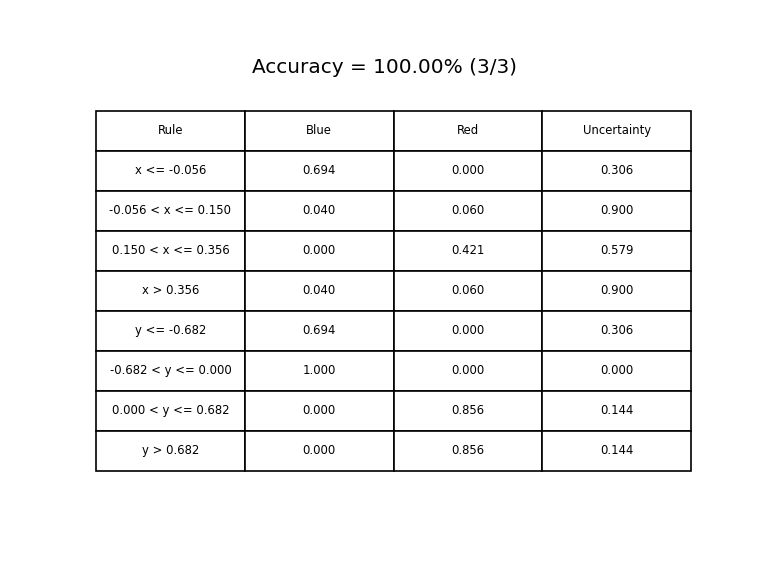
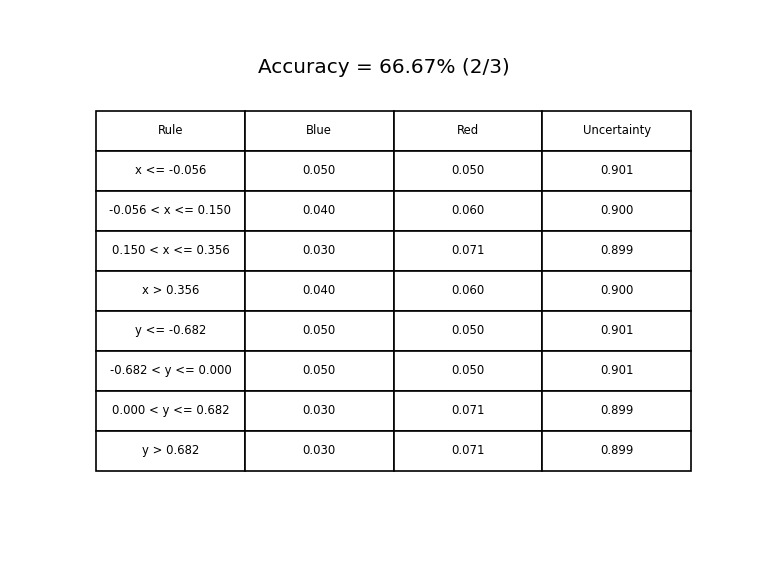
Train and inference generalization

diff --git a/src/model.py b/src/model.py
@@ -43,95 +43,86 @@ def get_two_class_probabilities(dict_m, dataset_name):
     # p_tot = p_a + p_b
     # return p_a/p_tot, p_b/p_tot # It works with projection working!
     class_0, class_1 = get_class_plausibility(plausibility(dict_m, dataset_name), dataset_name)
-    return class_0/(class_0+class_1), class_1/(class_0+class_1)
+    prob_class_0 = class_0/(class_0+class_1)
+    prob_class_1 = class_1/(class_0+class_1)
+    return prob_class_0, prob_class_1
     #return r, b, r_b
     #return r/(r+r_b), b/(r+r_b), r_b 
     #return r/(r+b+r_b), b/(r+b+r_b), r_b 
     #return (r+p_a)/2, (b+p_b)/2, r_b # Uncertainty 1.0 with useless rule
 
-def get_class_probabilities_bc(dict_m):
-    b   = dict_m[frozenset({'B'})]
-    m   = dict_m[frozenset({'M'})]
-    b_m = dict_m[frozenset({'B','M'})]
-    #max_m = max(r, b)
-    p_b = b + b_m
-    p_m = m + b_m
-    p_tot = p_b + p_m
-    return p_m/p_tot, p_b/p_tot # It works with projection working!
+# def get_class_probabilities_bc(dict_m):
+#     b   = dict_m[frozenset({'B'})]
+#     m   = dict_m[frozenset({'M'})]
+#     b_m = dict_m[frozenset({'B','M'})]
+#     #max_m = max(r, b)
+#     p_b = b + b_m
+#     p_m = m + b_m
+#     p_tot = p_b + p_m
+#     return p_m/p_tot, p_b/p_tot # It works with projection working!
 
 
 
-def model_predict_train_a1(x,y, rule_set):
-    M = []
-    for m,_,s in rule_set:
-        if s(x,y): # Point coordinates (y is NOT label class here)
-            M.append(m)
+# def model_predict_train_bc(a,b,c,d,e,f,g,h,i, rule_set):
+#     M = []
+#     for m,_,s in rule_set:
+#         if s(a,b,c,d,e,f,g,h,i): # Point coordinates (y is NOT label class here)
+#             M.append(m)
 
-    m = weight_full_uncertainty_A1()
-    for m_i in M:
-        m = dempster_rule(m,m_i)
+#     m = weight_full_uncertainty_bc()
+#     for m_i in M:
+#         m = dempster_rule(m,m_i)
         
-    r_prob, b_prob = get_class_probabilities_a1(m)
-    # Change order to match one hot encoding of classes
-    # Blue (class 0) => [1 0]
-    # Red  (class 1) => [0 1]
-    y_hat = [b_prob, r_prob]
+#     r_prob, b_prob = get_class_probabilities_bc(m)
+#     # Change order to match one hot encoding of classes
+#     # Blue (class 0) => [1 0]
+#     # Red  (class 1) => [0 1]
+#     y_hat = [b_prob, r_prob]
 
-    return y_hat
+#     return y_hat
 
-def model_predict_train_bc(a,b,c,d,e,f,g,h,i, rule_set):
-    M = []
-    for m,_,s in rule_set:
-        if s(a,b,c,d,e,f,g,h,i): # Point coordinates (y is NOT label class here)
-            M.append(m)
-
-    m = weight_full_uncertainty_bc()
-    for m_i in M:
-        m = dempster_rule(m,m_i)
-        
-    r_prob, b_prob = get_class_probabilities_bc(m)
-    # Change order to match one hot encoding of classes
-    # Blue (class 0) => [1 0]
-    # Red  (class 1) => [0 1]
-    y_hat = [b_prob, r_prob]
-
-    return y_hat
-
-def model_predict_train(rule_set, dataset_name, *args):
+def model_predict_train(rule_set, dataset_name, *att):
     # Args is x,y in A1 and 9 attributes in Breast Cancer
     M = []
     for m,_,s in rule_set:
-        if s(*args): # Point coordinates (y is NOT label class here)
+        if s(*att): # Point coordinates (y is NOT label class here)
             M.append(m)
 
     m = weight_full_uncertainty(dataset_name)
     for m_i in M:
         m = dempster_rule(m,m_i, dataset_name)
         
-    r_prob, b_prob = get_two_class_probabilities(m, dataset_name)
+    prob_class_0, prob_class_1 = get_two_class_probabilities(m, dataset_name)
     # Change order to match one hot encoding of classes
     # Blue (class 0) => [1 0]
     # Red  (class 1) => [0 1]
-    y_hat = [b_prob, r_prob]
+    y_hat = [prob_class_0, prob_class_1]
 
     return y_hat
 
 
+# def model_predict_train_v2(X, rule_set, dataset_name):
+#     if dataset_name == "A1_Dataset":
+#         y_hat_list = []
+#         for att in X:
+#             y_hat = model_predict_train(rule_set, dataset_name, *att)
+#             y_hat_list.append(y_hat)
+#         return y_hat_list
+#     elif dataset_name == "BC_Dataset":
+#         y_hat_list = []
+#         for a,b,c,d,e,f,g,h,i in X:
+#             y_hat = model_predict_train_bc(a,b,c,d,e,f,g,h,i,rule_set)
+#             y_hat_list.append(y_hat)
+#         return y_hat_list
+#     else:
+#         assert False
+    
 def model_predict_train_test(X, rule_set, dataset_name):
-    if dataset_name == "A1_Dataset":
-        y_hat_list = []
-        for att in X:
-            y_hat = model_predict_train(rule_set, dataset_name, *att)
-            y_hat_list.append(y_hat)
-        return y_hat_list
-    elif dataset_name == "BC_Dataset":
-        y_hat_list = []
-        for a,b,c,d,e,f,g,h,i in X:
-            y_hat = model_predict_train_bc(a,b,c,d,e,f,g,h,i,rule_set)
-            y_hat_list.append(y_hat)
-        return y_hat_list
-    else:
-        assert False
+    y_hat_list = []
+    for att in X:
+        y_hat = model_predict_train(rule_set, dataset_name, *att)
+        y_hat_list.append(y_hat)
+    return y_hat_list
 
 
 def training(X, Y, rule_set, loss, dataset_name):
@@ -181,6 +172,7 @@ def training(X, Y, rule_set, loss, dataset_name):
 
 # ---------------- Inference -------------------
 
+# TODO: ver dataset
 def frozenset_to_class(y_hat):
     # For a1 and a2 dataset
     #if y_hat == frozenset({'R', 'B'}):
@@ -193,50 +185,56 @@ def y_argmax(dict_m):
     return frozenset_to_class(max(dict_m, key=(lambda key: dict_m[key])))
 
 
-def model_inference_a1(x,y, rule_set, dataset_name):
+def model_inference(rule_set, dataset_name, *att):
     M = []
     for m,_,s in rule_set:
-        if s(x,y): # Point coordinates (y is NOT label class here)
+        if s(*att): # Point coordinates (y is NOT label class here)
             M.append(m)
 
-    m = weight_full_uncertainty_A1()
+    m = weight_full_uncertainty(dataset_name)
     for m_i in M:
-        m = dempster_rule(m,m_i)
+        m = dempster_rule(m,m_i, dataset_name)
         
     return y_argmax(m)
 
-def model_inference_bc(a,b,c,d,e,f,g,h,i, rule_set):
-    M = []
-    for m,_,s in rule_set:
-        if s(a,b,c,d,e,f,g,h,i): # Point coordinates (y is NOT label class here)
-            M.append(m)
+# def model_inference_bc(a,b,c,d,e,f,g,h,i, rule_set):
+#     M = []
+#     for m,_,s in rule_set:
+#         if s(a,b,c,d,e,f,g,h,i): # Point coordinates (y is NOT label class here)
+#             M.append(m)
 
-    m = weight_full_uncertainty_A1()
-    for m_i in M:
-        m = dempster_rule(m,m_i)
+#     m = weight_full_uncertainty_A1()
+#     for m_i in M:
+#         m = dempster_rule(m,m_i)
         
-    return y_argmax(m)
+#     return y_argmax(m)
 
+
+# def inference(X, rule_set, dataset_name):
+#     if dataset_name == "A1_Dataset":
+#         y_hat_list = []
+#         for att in X:
+#             y_hat = model_inference(rule_set, dataset_name, *att)
+#             y_hat_list.append(y_hat)
+#         return y_hat_list
+#     elif dataset_name == "BC_Dataset":
+#         y_hat_list = []
+#         for a,b,c,d,e,f,g,h,i in X:
+#             y_hat = model_inference_bc(a,b,c,d,e,f,g,h,i, rule_set)
+#             y_hat_list.append(y_hat)
+#         return y_hat_list
+#     else:
+#         assert False
 
 def inference_test(X, rule_set, dataset_name):
-    if dataset_name == "A1_Dataset":
-        y_hat_list = []
-        for x,y in X:
-            y_hat = model_inference_a1(x,y, rule_set, dataset_name)
-            y_hat_list.append(y_hat)
-        return y_hat_list
-    elif dataset_name == "BC_Dataset":
-        y_hat_list = []
-        for a,b,c,d,e,f,g,h,i in X:
-            y_hat = model_inference_bc(a,b,c,d,e,f,g,h,i, rule_set)
-            y_hat_list.append(y_hat)
-        return y_hat_list
-    else:
-        assert False
+    y_hat_list = []
+    for att in X:
+        y_hat = model_inference(rule_set, dataset_name, *att)
+        y_hat_list.append(y_hat)
+    return y_hat_list
 
 def inference(X, Y, rule_set, dataset_name):
     y_hat_list = inference_test(X, rule_set, dataset_name)
-       
     tot_correct_predicts = np.sum(np.array(Y) == np.array(y_hat_list))
     tot_predicts = len(Y)
     return tot_correct_predicts/tot_predicts*100, tot_correct_predicts, tot_predicts

diff --git a/utils/config.py b/utils/config.py
@@ -9,7 +9,7 @@ CLASS_          = "class"
 BREAK_IT        = "Breaking at {} iteration"
 EPSILON         = 0.0001
 NUM_CLASSES     = 2 
-NUM_EPOCHS      = 750
+NUM_EPOCHS      = 10
 
 #------------------ A1 Dataset ----------------- 
 NUM_ELEMENTS      = 500
@@ -33,7 +33,6 @@ A1_POWERSET     = get_powerset({'R'}.union({'B'}))
 BC_NUM_CLASSES            = 2
 BC_DATASET_FILE           = "breast_cancer_uci.csv" 
 BC_PROCESSED_DATASET_FILE = "breast_cancer_uci_processed.csv" 
-# BC_READ_RULES = "Rule {:>3}: ct = {:.3f}, ucsize = {:.3f}, ucshape = {:.3f}, ma = {:.3f}, secz = {:.3f}, bn = {:.3f}, bc = {:.3f}, nn = {:.3f}, m = {:.3f}, uncertainty = {:.3f}"
 BC_LOSS_IMG   = "BC_Loss"
 BC_RULE_TABLE = "BC_Rule_Table"
 
@@ -51,7 +50,7 @@ _att_fronzenset = {
     "H" : "nn",
     "I" : "m"
 }
-
+#-----------------------------------------------------------
 
 # Image
 IMAGE_FOLDER = "imgs"
@@ -64,11 +63,7 @@ DTYPE = torch.float
 #DEVICE = torch.device("cuda" if torch.cuda.is_available() else "cpu")
 DEVICE = torch.device("cpu")
 EMPTY_SET    = set()
-COMPLETE_SET = frozenset({'R','B'})
-#POWERSET = get_powerset({'R'}.union({'B'}))
 
-#COMPLETE_SET = frozenset({'B','M'})
-#POWERSET = get_powerset({'B'}.union({'M'}))
 
 # Table
 NUM_FORMAT = '{:.3f}'

diff --git a/utils/dempster_shaffer.py b/utils/dempster_shaffer.py
@@ -20,9 +20,11 @@ def normalize_masses_combined(dict_combined_m):
     
     return dict_combined_m_norm
 
-def dempster_rule(dict_m1, dict_m2, powerset):
+def dempster_rule(dict_m1, dict_m2, dataset_name):
     # Combine masses
     dict_combined_m = {}
+    powerset = get_powerset_dataset(dataset_name)
+
     for s in powerset:
         sum_m = 0
         for s1 in dict_m1:
@@ -50,18 +52,22 @@ def dempster_rule(dict_m1, dict_m2, powerset):
 
 
 
-def belief_set(A, dict_m):
+def belief_set(A, dict_m, dataset_name):
     sum_m = 0
-    for s in POWERSET:
+    powerset = get_powerset_dataset(dataset_name)
+
+    for s in powerset:
         if s.issubset(A):
             sum_m += dict_m[s]
     return sum_m
 
 
-def belief(dict_m):
+def belief(dict_m, dataset_name):
     dict_beliefs = {}
+    complete_set = get_complete_set_dataset(dataset_name)
+
     for s in dict_m:
-        if s == COMPLETE_SET:
+        if s == complete_set:
             continue
         dict_beliefs[s] = belief_set(s, dict_m)
     
@@ -135,6 +141,4 @@ def normalize_rule_set(rule_set):
 #     dist = v[0]*n[0] + v[1]*n[1] + v[2]*n[2]
 #     p_ = p - dist*n
 #     print(p_)
-
-    
-    
+  

diff --git a/utils/aux_function.py b/utils/aux_function.py
@@ -6,7 +6,6 @@
 from itertools import chain, combinations
 from torch import tensor, optim
 from utils.config import *
-from utils.dempster_shaffer import *
 
 def y_argmax_train(dict_m):
     # Return probability for each classl using Cobb and Shenoy approach
@@ -62,7 +61,7 @@ def order_rules_by_malign(rule_set):
 
 def get_class_plausibility(dict_m, dataset_name):
     if dataset_name == "A1_Dataset":
-        class_0, class_1 = dict_m[frozenset({'R'})], dict_m[frozenset({'B'})]
+        class_0, class_1 = dict_m[frozenset({'B'})], dict_m[frozenset({'R'})]
     elif dataset_name == "BC_Dataset":
         class_0, class_1 = dict_m[frozenset({'B'})], dict_m[frozenset({'M'})]
     else:

diff --git a/src/main.py b/src/main.py
@@ -92,6 +92,6 @@ def evaluate_breast_cancer_dataset(dataset_name):
     draw_loss(it_loss, graph_filepath)
 
 if __name__ == "__main__":
-    evaluate_A1_dataset("A1_Dataset")
-    #evaluate_breast_cancer_dataset("BC_Dataset")
+    #evaluate_A1_dataset("A1_Dataset")
+    evaluate_breast_cancer_dataset("BC_Dataset")
     

diff --git a/README.md b/README.md
@@ -22,8 +22,9 @@ bash test.sh
 - [ ] Use Pytorch loss function
 - [x] Generate rules
 - [ ] Generalize lambda functions
-- [ ] Generalize model for datasets
+- [x] Generalize model for datasets
 - [ ] Add belief to inference
+- [ ] Update frozenset_to_class to consider dataset_name
 
 ## Comments:
 Pytorch implementation working withou projecting masses. When trying to project, we have a backward error and if we fix it, the masse values barely change over iterations (and take a lot longer to process)
